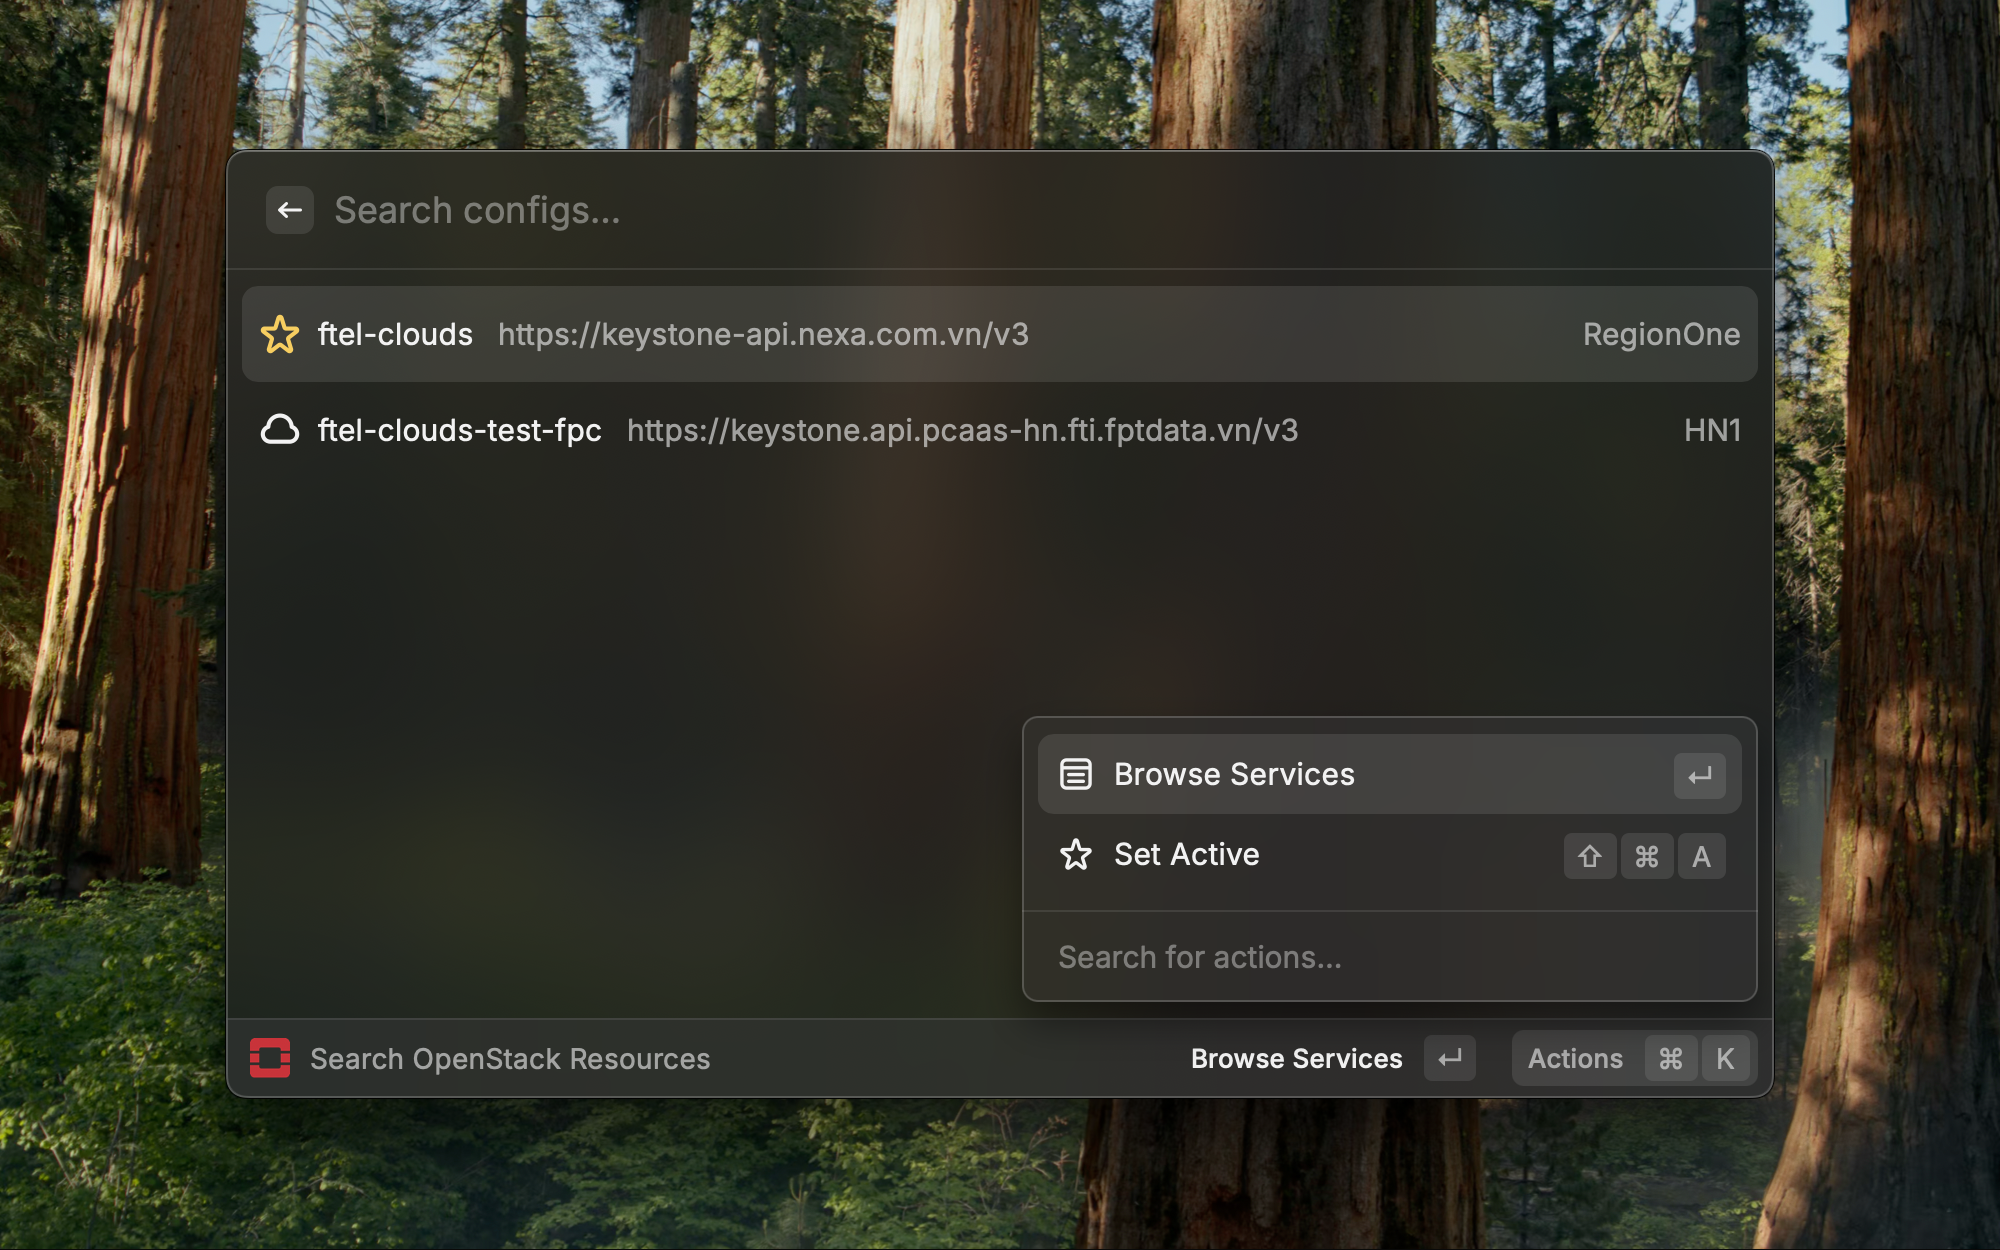
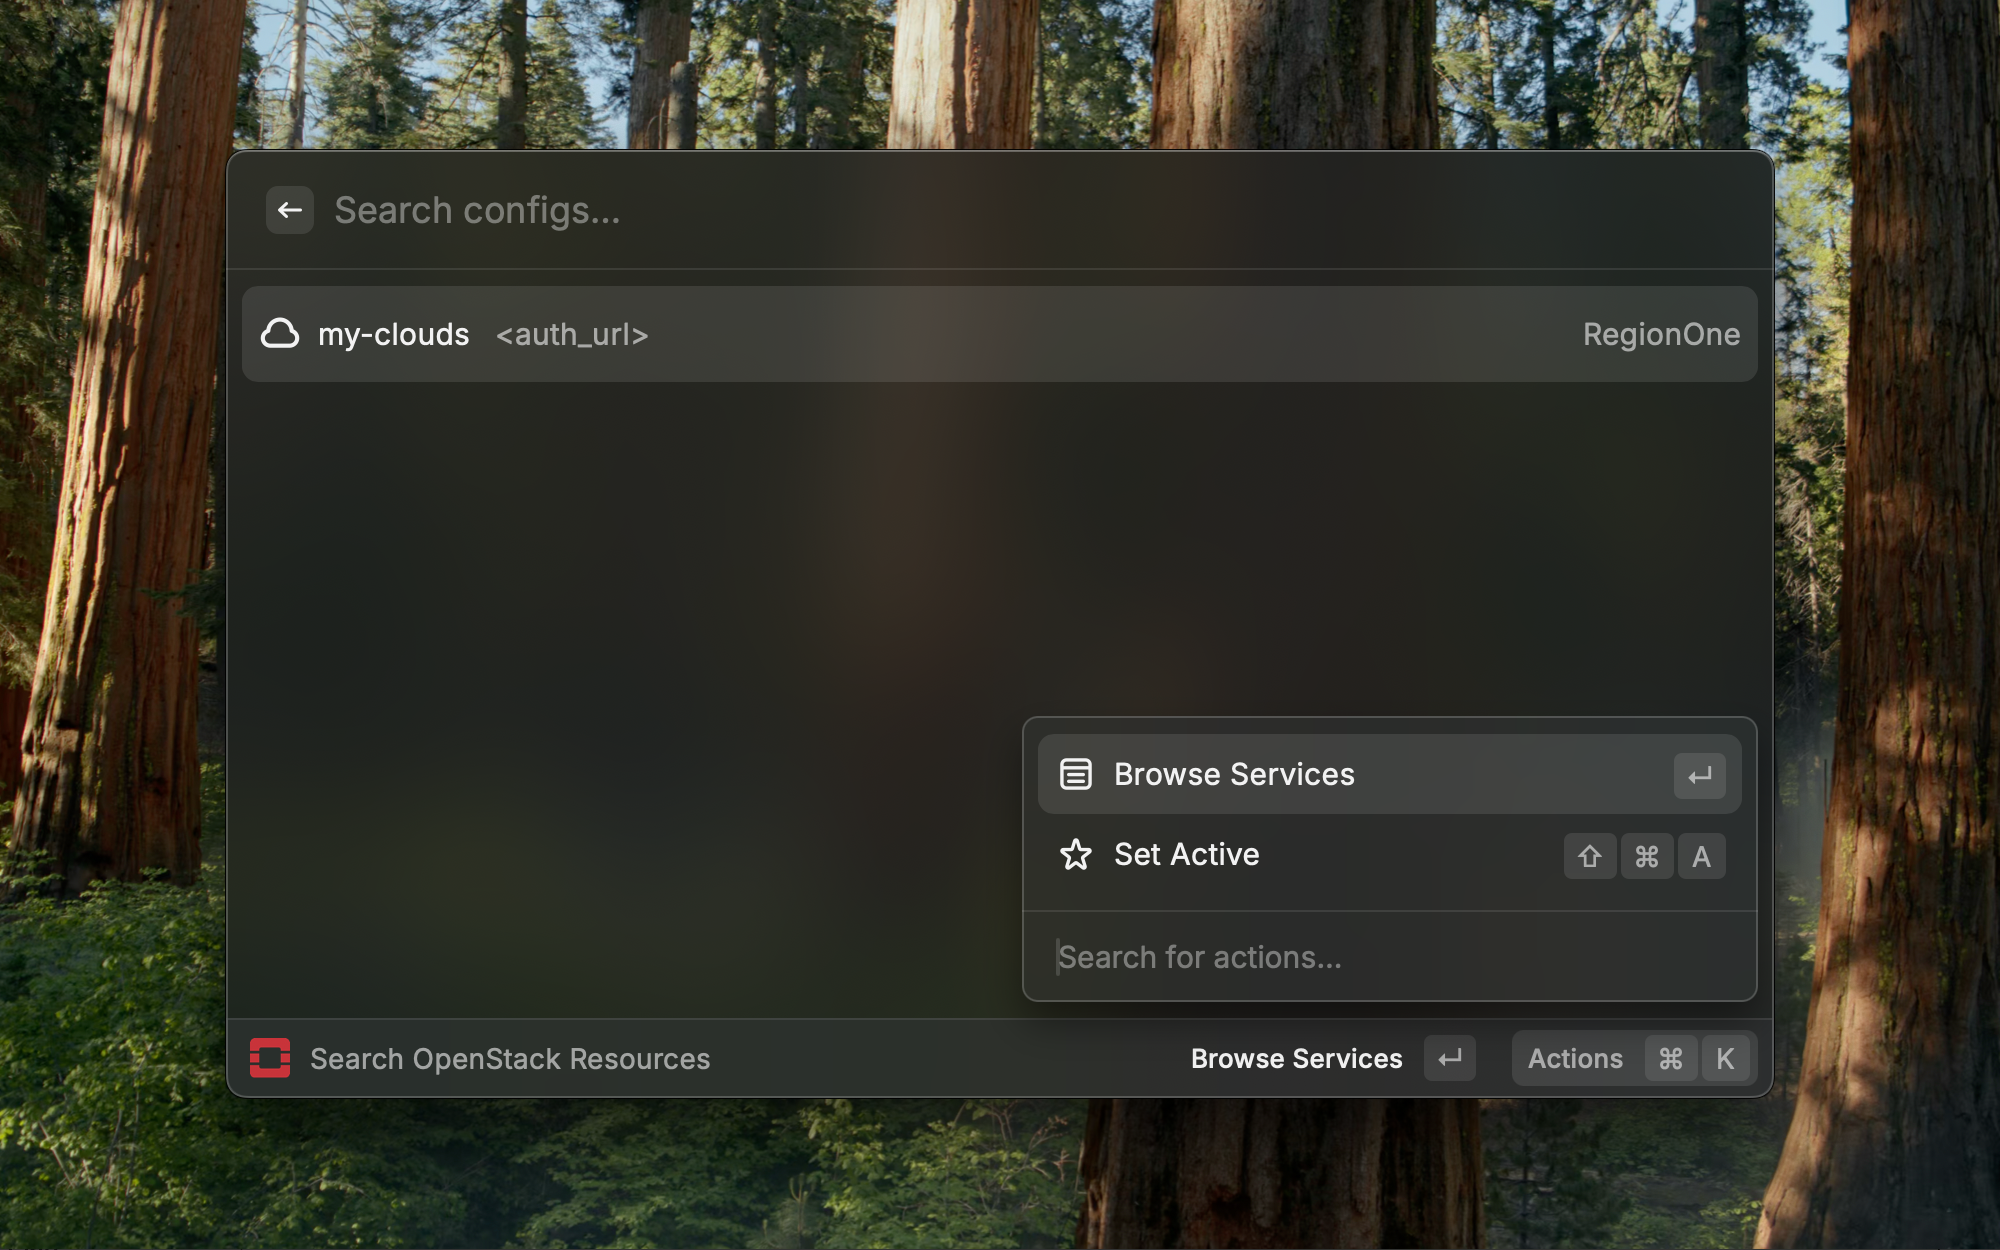
fix: remove dependency @raycast/utils, fix hardcoded key current-project-id, add $schema field

diff --git a/src/services/SecurityGroupService.ts b/src/services/SecurityGroupService.ts
@@ -40,7 +40,7 @@ export class SecurityGroupService extends BaseService {
    * Cached in LocalStorage since the project doesn't change within a config.
    */
   private async getCurrentProjectId(): Promise<string | null> {
-    const cacheKey = "current-project-id";
+    const cacheKey = `current-project-id:${this.cli.getCloudName()}`;
     try {
       const cached = await LocalStorage.getItem<string>(cacheKey);
       if (cached) return cached;

diff --git a/src/services/views/SecurityGroupsView.tsx b/src/services/views/SecurityGroupsView.tsx
@@ -64,7 +64,7 @@ export default function SecurityGroupsView({
             icon={Icon.Shield}
             title={group.name}
             subtitle={group.description ?? ""}
-            accessories={[{ text: group.description ?? "" }]}
+            accessories={[{ text: group.id }]}
             actions={
               <ActionPanel>
                 <Action.Push

diff --git a/src/core/CLIExecutor.ts b/src/core/CLIExecutor.ts
@@ -17,6 +17,10 @@ export class CLIExecutor {
     private readonly cloudName: string,
   ) {}
 
+  getCloudName(): string {
+    return this.cloudName;
+  }
+
   /**
    * Runs: <binaryPath> --os-cloud <cloudName> ...args -f json
    * Returns parsed JSON output.
